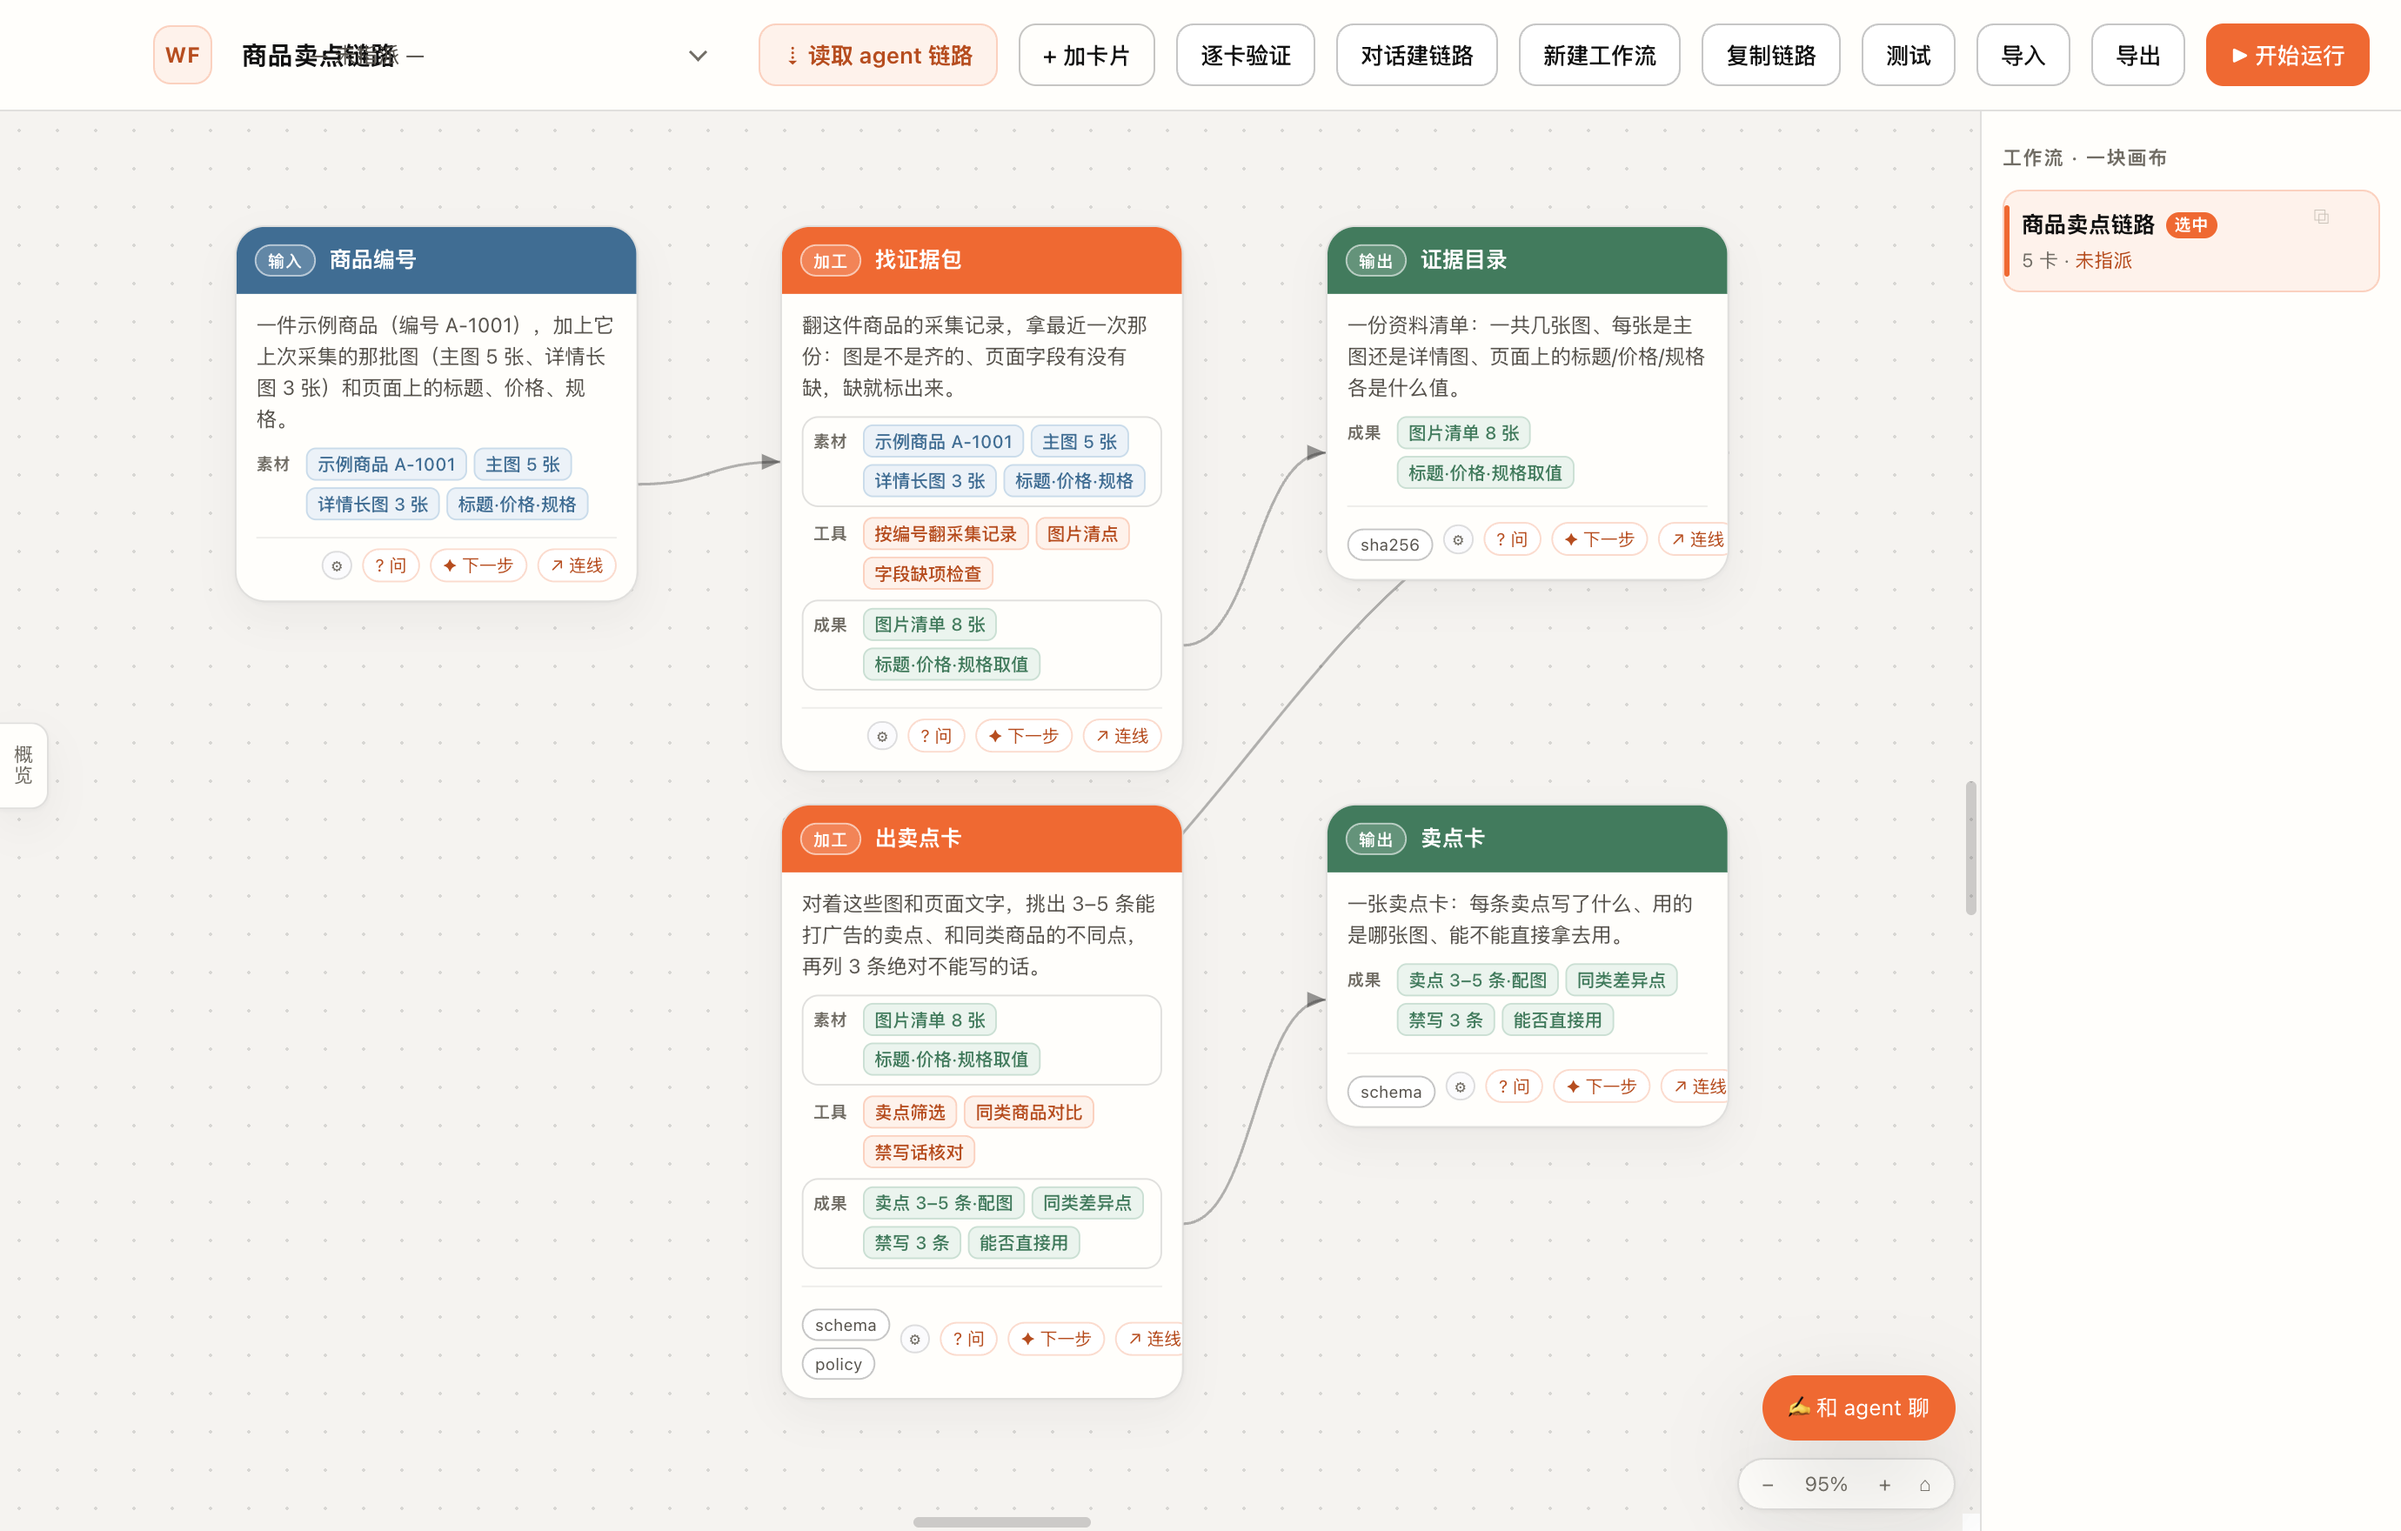
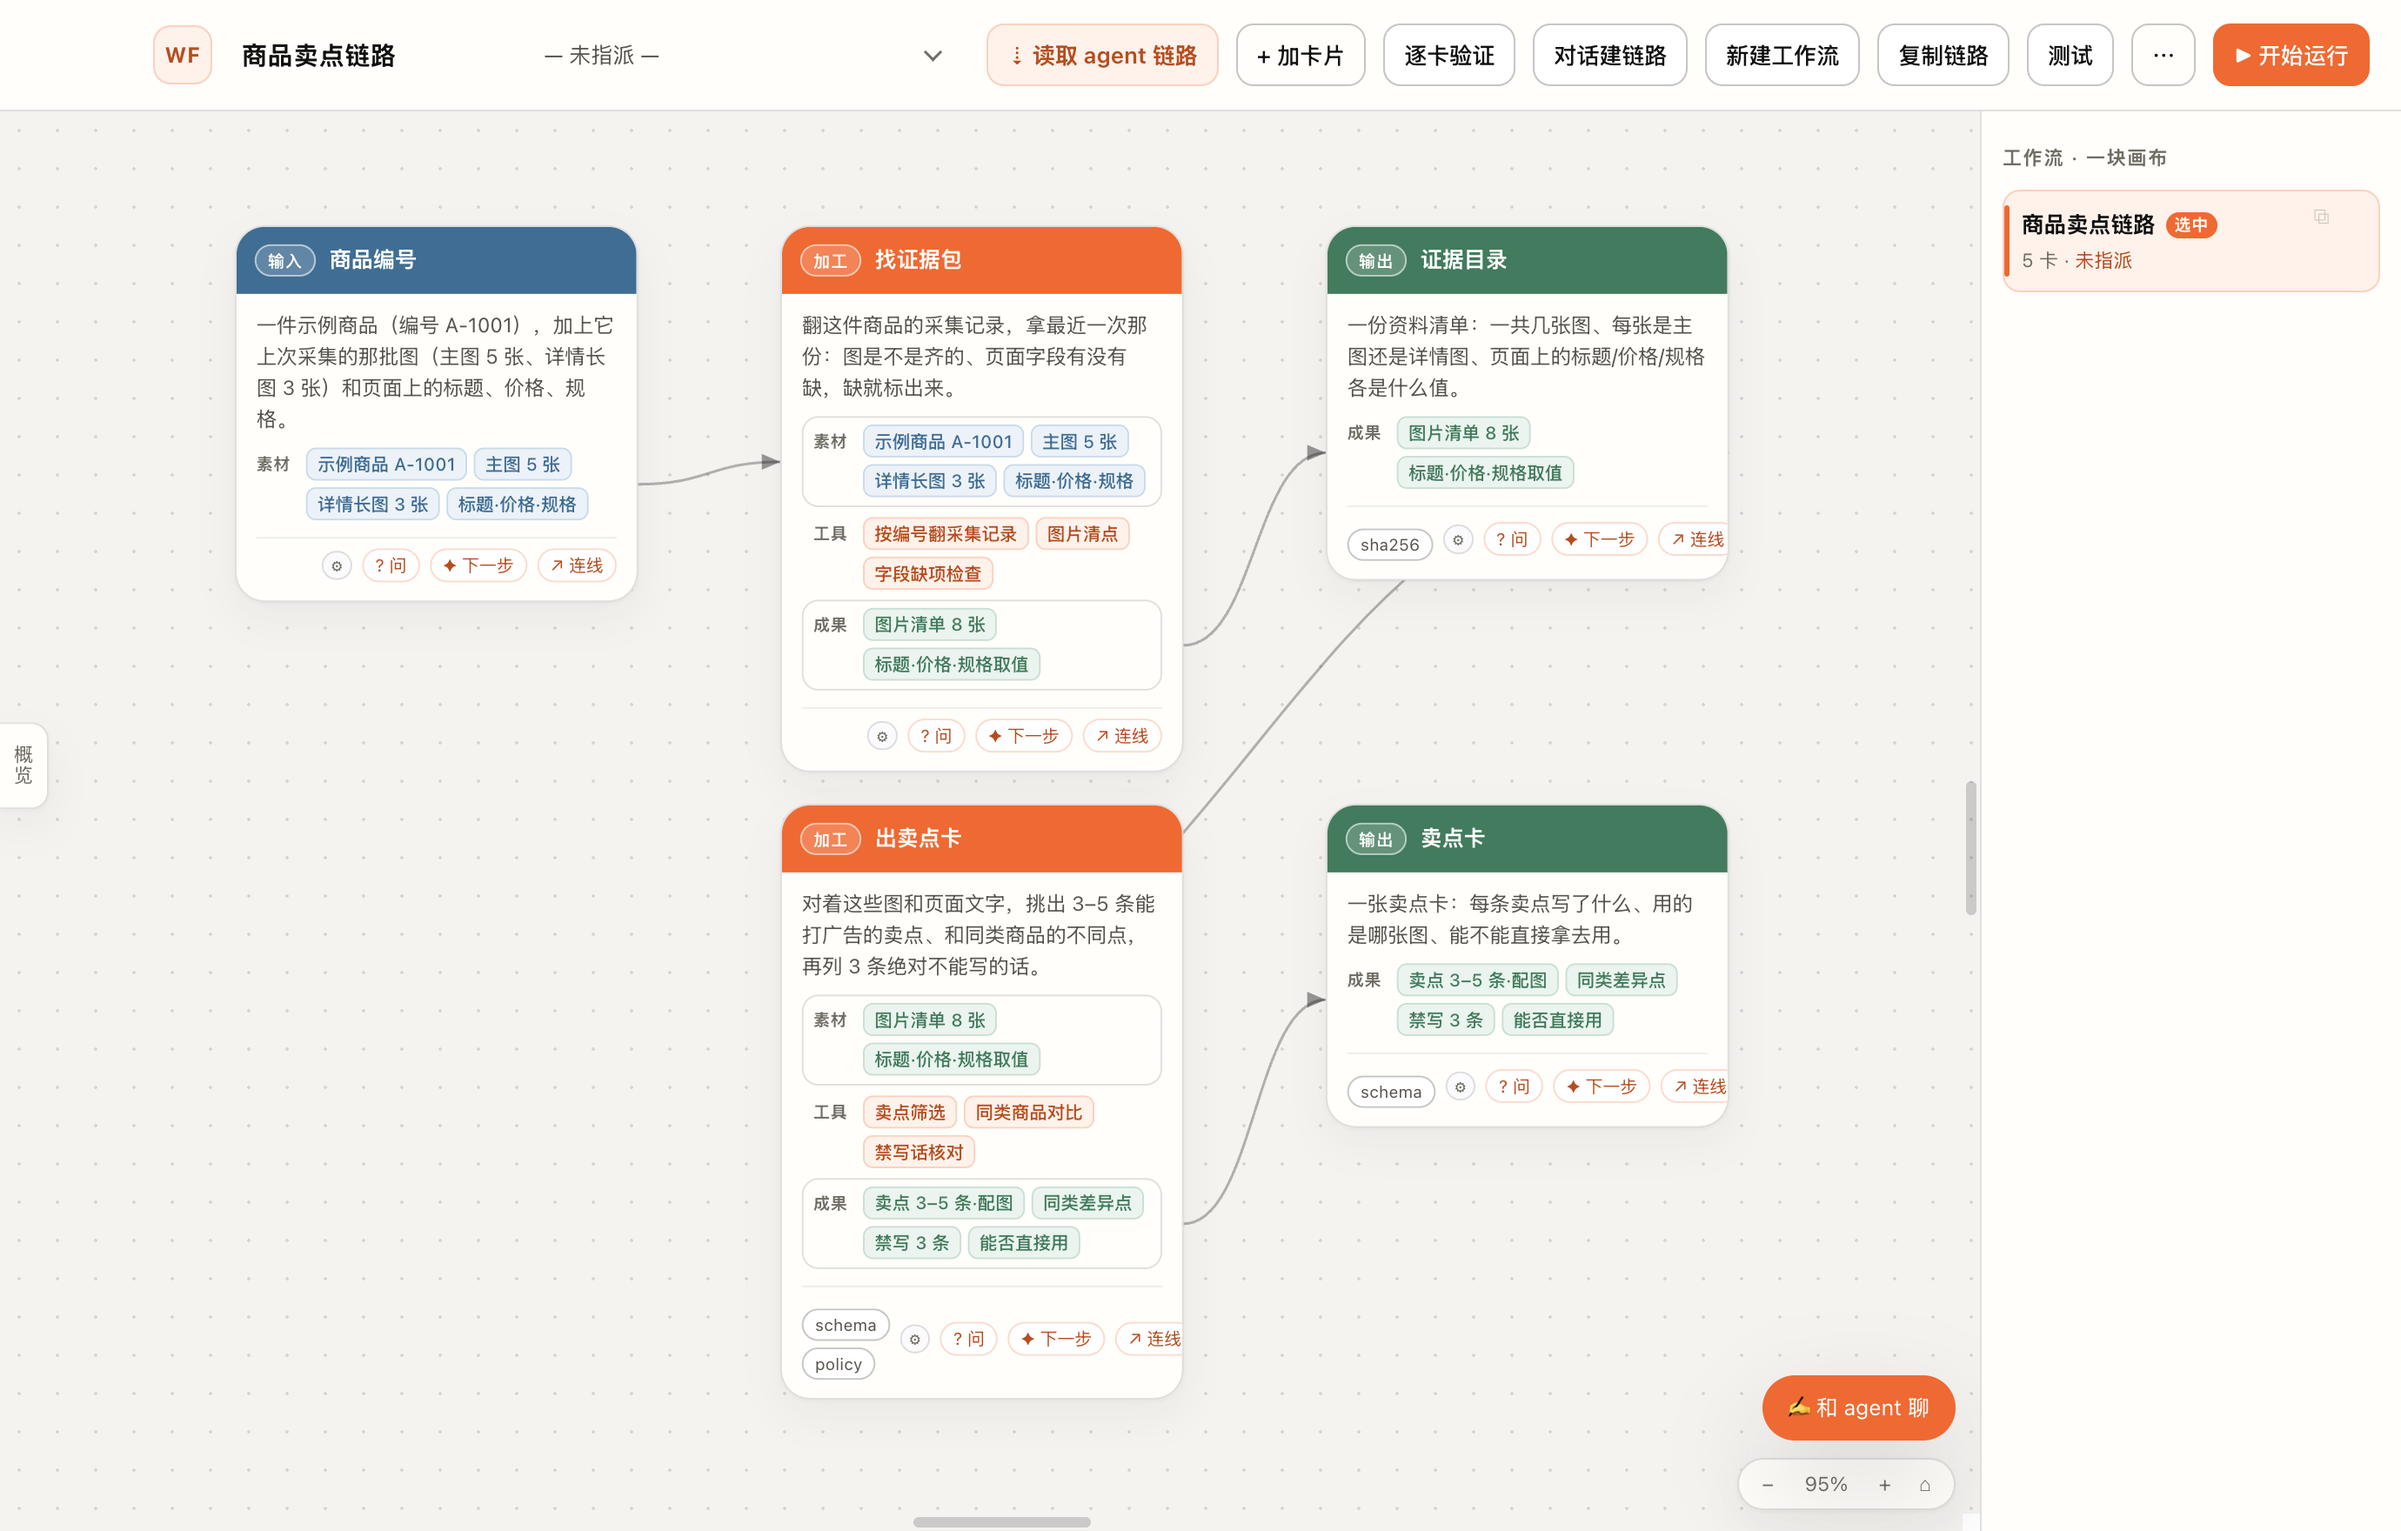
顶栏不再打架：工作流名字可收缩、导入导出收进 ⋯ 菜单
默认窗口 1380 宽下，上一版新增的「复制链路 / 测试」把 #flowName 写死的 220px
顶到了执行方选择器上（重叠 182px，名字中段点不到）。改法：
- #flowName 改为 width:100% / min-width:110 / max-width:220，父层 .brand-name 可收缩
- .brand flex:0 1 auto + min-width:170，保证名字不会被压成 70px
- 导入 / 导出合并进顶栏「⋯」菜单（#btnMore + #moreMenu），处理函数不变
- cdp-copy.js 新增 topbar-no-overlap 断言：名字与选择器不相交、中点命中 flowName、最右按钮不被窗口裁
- 刷新 docs/screenshot.png；SKILL.md 记下顶栏宽度预算

Changed region(s): [[0.3116, 0.0, 0.9659, 0.0625]]

diff --git a/renderer/style.css b/renderer/style.css
@@ -21,14 +21,17 @@ body{margin:0;background:var(--bg);color:var(--ink);font-family:var(--font);font
   -webkit-font-smoothing:antialiased;overflow:hidden;user-select:none}
 
 /* ---------- 顶栏 ---------- */
-.topbar{height:64px;display:flex;align-items:center;gap:12px;padding:0 18px 0 88px;
+.topbar{height:64px;display:flex;align-items:center;gap:10px;padding:0 18px 0 88px;
   background:var(--surface);border-bottom:1px solid var(--line);-webkit-app-region:drag}
-.brand{display:flex;align-items:center;gap:10px;min-width:0}
+/* 顶栏一排按钮多，名字区可收缩但不许溢出压到执行方选择器（默认 1380 宽下两者不相交） */
+.topbar button,.topbar .btn{padding:7px 11px}
+.brand{display:flex;align-items:center;gap:10px;flex:0 1 auto;min-width:170px}
+.brand-name{display:flex;flex:1 1 auto;min-width:0}
 .brand-mark{width:34px;height:34px;display:grid;place-items:center;flex:none;
   border:1px solid var(--accent-line);border-radius:var(--radius-sm);background:var(--accent-soft);
   color:var(--accent-ink);font-size:12.5px;font-weight:700;letter-spacing:.4px}
 #flowName{-webkit-app-region:no-drag;font:inherit;font-weight:600;font-size:14.5px;letter-spacing:.02em;color:var(--ink);
-  background:transparent;border:1px solid transparent;border-radius:7px;padding:1px 6px;width:220px;outline:none}
+  background:transparent;border:1px solid transparent;border-radius:7px;padding:1px 6px;width:100%;min-width:110px;max-width:220px;outline:none}
 #flowName:hover{border-color:var(--line)}
 #flowName:focus{border-color:var(--accent);background:#fff;box-shadow:0 0 0 3px var(--accent-soft)}
 .brand-sub{font-size:11.5px;color:var(--ink-3);padding-left:7px}

diff --git a/skills/workflow-studio/scripts/cdp-copy.js b/skills/workflow-studio/scripts/cdp-copy.js
@@ -60,6 +60,18 @@ const ok = (name, pass, info) => {
   const orig = await ev(`(() => ({ id: store.current }))()`);
   ok('open', await ev(`['duplicateWorkflow','checkFlow','checkText','startPreview','clearPreviews','openTest'].every(k => typeof window[k] === 'function')`), '复制 / 体检 / 预演 / 清空的入口都在');
 
+  // 顶栏在默认窗口下不许挤：名字框与执行方选择器 rect 不相交、名字中点能点到名字、最右按钮不被窗口裁掉
+  const bar = await ev(`(() => {
+    const n = document.querySelector('#flowName').getBoundingClientRect();
+    const f = document.querySelector('.flowagent').getBoundingClientRect();
+    const run = document.querySelector('#btnRun').getBoundingClientRect();
+    const hit = document.elementFromPoint(n.left + n.width / 2, n.top + n.height / 2);
+    return { 名字宽: Math.round(n.width), 名字右: Math.round(n.right), 选择器左: Math.round(f.left),
+      重叠: Math.round(Math.max(0, Math.min(n.right, f.right) - Math.max(n.left, f.left))),
+      中点命中: hit && (hit.id || hit.className), 运行钮右: Math.round(run.right), 窗口宽: innerWidth };
+  })()`);
+  ok('topbar-no-overlap', !!bar && bar.重叠 === 0 && bar.中点命中 === 'flowName' && bar.名字宽 >= 110 && bar.运行钮右 <= bar.窗口宽 - 8, bar);
+
   // ---------- 1 造一条有内容的链路（3 卡 + 2 线 + 模块 + 执行方） ----------
   const src = await ev(`(() => {
     const w = createWorkflow('复制链路 · 原件');

diff --git a/renderer/app.js b/renderer/app.js
@@ -107,8 +107,9 @@ function bindUI() {
   $('#btnTempChat').onclick = startTempCanvas;
   $('#tempSave').onclick = promoteTemp;
   $('#tempClose').onclick = closeTempCanvas;
-  $('#btnAddCard').onclick = e => { e.stopPropagation(); $('#addMenu').classList.toggle('on'); };
-  document.addEventListener('click', () => $('#addMenu').classList.remove('on'));
+  $('#btnAddCard').onclick = e => { e.stopPropagation(); $('#moreMenu').classList.remove('on'); $('#addMenu').classList.toggle('on'); };
+  $('#btnMore').onclick = e => { e.stopPropagation(); $('#addMenu').classList.remove('on'); $('#moreMenu').classList.toggle('on'); };
+  document.addEventListener('click', () => { $('#addMenu').classList.remove('on'); $('#moreMenu').classList.remove('on'); });
   document.querySelectorAll('#addMenu div').forEach(d => d.onclick = () => { addNode(d.dataset.kind); $('#addMenu').classList.remove('on'); });
   $('#btnSave').onclick = exportFlow;
   $('#btnOpen').onclick = importFlow;

diff --git a/renderer/index.html b/renderer/index.html
@@ -10,7 +10,7 @@
   <div class="topbar">
     <div class="brand">
       <div class="brand-mark">WF</div>
-      <div>
+      <div class="brand-name">
         <input id="flowName" class="brand-title" spellcheck="false" value="未命名工作流">
       </div>
     </div>
@@ -32,8 +32,13 @@
     <button id="btnNew">新建工作流</button>
     <button id="btnCopy" title="把当前这条链路复制成一条独立副本">复制链路</button>
     <button id="btnTest">测试</button>
-    <button id="btnOpen">导入</button>
-    <button id="btnSave">导出</button>
+    <div class="menu-wrap">
+      <button id="btnMore" class="ghost" title="导入 / 导出链路文件">⋯</button>
+      <div class="menu" id="moreMenu">
+        <div id="btnOpen">导入</div>
+        <div id="btnSave">导出</div>
+      </div>
+    </div>
     <button id="btnRun" class="primary">▶ 开始运行</button>
   </div>
 

diff --git a/skills/workflow-studio/SKILL.md b/skills/workflow-studio/SKILL.md
@@ -625,6 +625,18 @@ node skills/workflow-studio/scripts/cdp-copy.js --preview         # 再加 previ
 删完用 DOM 断言收口：`.brand-sub / .legend / .sidehint / .thin` 应该一个都查不到；
 重启（只关自己端口的实例）后再断言一次（页面缓存会让你以为删了其实没生效）。
 
+### 顶栏宽度是有预算的（被打回过一次）
+
+默认窗口 1380 宽，顶栏一排已经占满：`WF + 名字`、执行方选择器（最长选项 211px，控件 242）+
+读取/加卡片/逐卡验证/对话建链路/新建/复制/测试/⋯/开始运行。所以：
+
+- 名字框 `#flowName` 是 `width:100%;min-width:110px;max-width:220px`，`.brand` 可收缩但 `min-width:170px`；
+  名字的父层 `.brand-name` 必须 `flex:1 1 auto;min-width:0`（少了它输入框会溢出品牌区、压在选择器上）。
+- **导入 / 导出收在顶栏「⋯」菜单里**（`#btnMore` + `#moreMenu`，条目仍是 `#btnOpen / #btnSave`，处理函数不变）。
+- 往顶栏加按钮前先量三条：名字与选择器 rect `overlap === 0`、名字中点 `elementFromPoint` 命中 `flowName`、
+  最右按钮右边界 ≤ `innerWidth - 8`。这三条已经写进 `cdp-copy.js` 的 `topbar-no-overlap`，别等验收才看见。
+  血的教训：24b04c0 新增「复制链路 / 测试」后 `#flowName` 还写死 220px，名字直接盖住执行方选择器 182px。
+
 ## 常见坑
 
 - **折叠面板别用 `display:none`**：它会把自己从 grid 里摘掉，后面的列整体前移（画布被挤成 0 宽、
